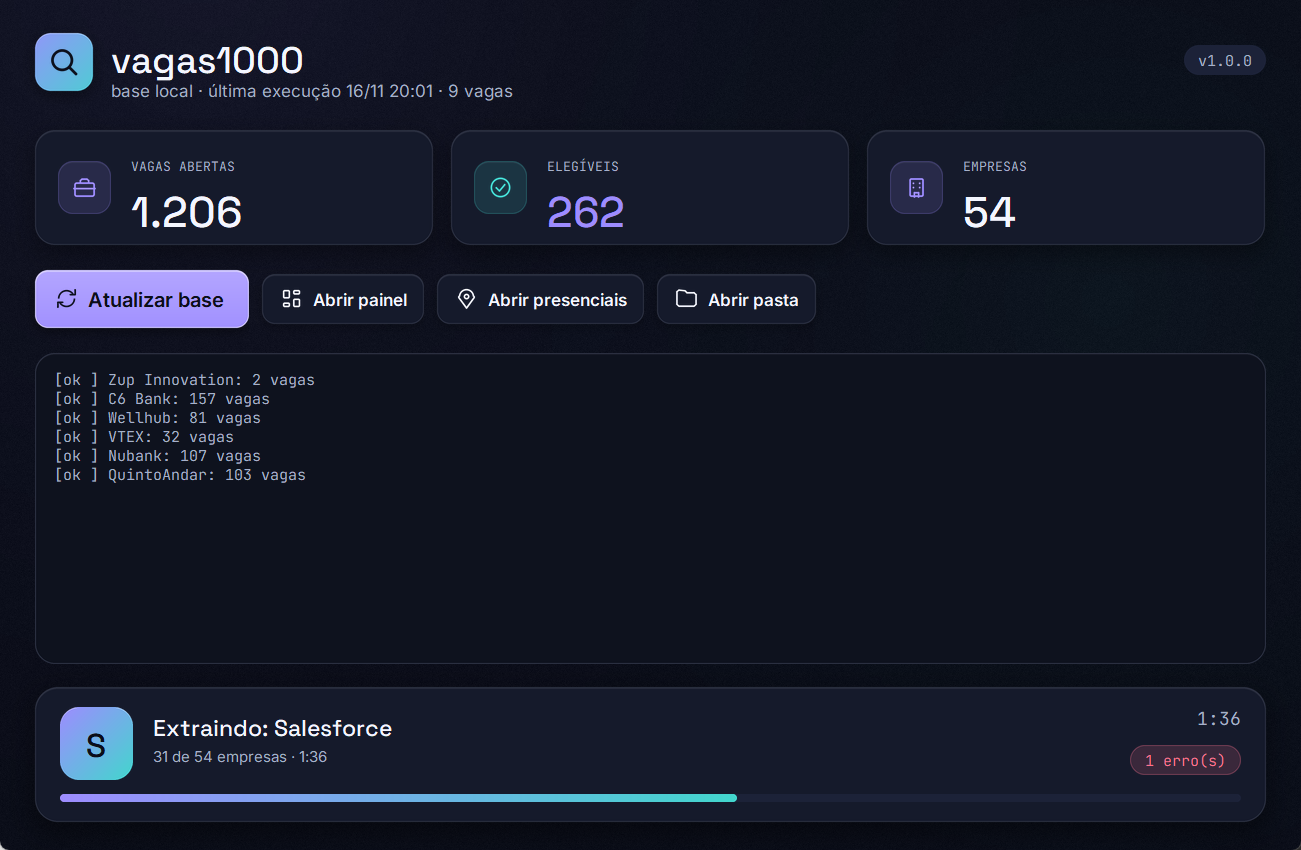
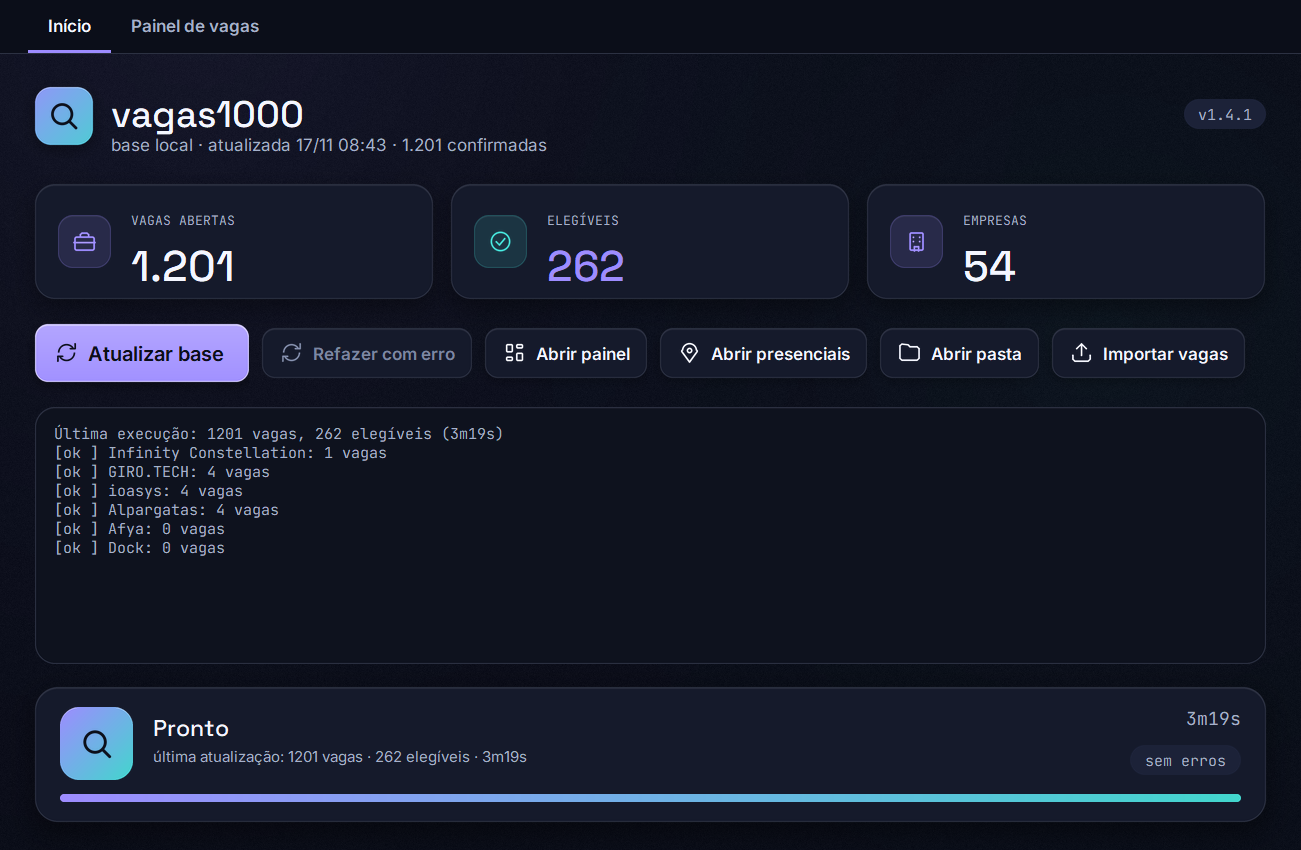
vagas1000 1.4.1: polimento visual (P3) e imagem da janela na documentacao
- Placeholder dos campos com cor explicita (--ink-3, 5,2:1).
- Cards de vagas encerradas: esmaece so o titulo e o selo, nao o card
  inteiro (os metadados mantem 8:1).
- Cabecalhos de coluna: "Ordenar por ...", seta ↕ no hover/foco e acesso
  por teclado (tabindex, Enter/espaco).
- docs/public/img/janela.png refeita com a versao atual (capturada com
  PrintWindow numa copia descartavel do banco, sem a queda da Lever).
- O algarismo "1" do Space Grotesk ja usa a variante tabular (com base)
  no painel; o Tk nao aceita recursos OpenType: sem mudanca.
- Testes, CHANGELOG e versao 1.4.1.

diff --git a/scraper/templates/dashboard.html b/scraper/templates/dashboard.html
@@ -65,6 +65,7 @@ svg.i{width:16px;height:16px;fill:none;stroke:currentColor;stroke-width:1.75;str
 /* Contorno de componentes interativos: --border-strong (>= 3:1, WCAG 1.4.11); --border fica para cards e divisores. */
 input[type=search],select,input[type=text]{background:var(--field);border:1px solid var(--border-strong);border-radius:var(--r-sm);padding:7px 11px;min-width:0}
 input[type=search]:focus,select:focus{border-color:var(--accent)}
+::placeholder{color:var(--ink-3);opacity:1}               /* o padrão do navegador some no campo escuro; o rótulo acessível está no aria-label */
 input[type=checkbox]{width:18px;height:18px;margin:0;accent-color:var(--accent);cursor:pointer;flex:none}
 input[type=range]{height:24px;margin:0;accent-color:var(--accent);cursor:pointer}
 .seg{display:inline-flex;background:var(--field);border:1px solid var(--border-strong);border-radius:var(--r-sm);padding:3px;gap:2px}
@@ -174,7 +175,7 @@ button.pill{cursor:pointer} button.pill:hover{border-color:var(--ink-3)}
 .cards{display:grid;grid-template-columns:repeat(auto-fill,minmax(310px,1fr));gap:14px}
 .card{display:flex;flex-direction:column;gap:10px;background:var(--surface-2);border:1px solid var(--border);border-radius:var(--r-lg);padding:16px;box-shadow:inset 0 1px 0 var(--hl),0 2px 8px -2px var(--shadow);cursor:pointer;transition:transform .15s,border-color .15s,box-shadow .15s;text-align:left;color:inherit;min-width:0}
 .card:hover{transform:translateY(-2px);border-color:color-mix(in srgb,var(--accent) 45%,var(--border));box-shadow:inset 0 1px 0 var(--hl),0 10px 24px -8px var(--shadow);text-decoration:none}
-.card.closed{opacity:.72}
+.card.closed .c-title,.card.closed .tile{opacity:.6}                 /* esmaecer o card inteiro derrubava o contraste dos metadados abaixo de 4,5:1 */
 .c-top{display:flex;align-items:center;gap:10px}
 .tile{width:38px;height:38px;border-radius:12px;display:grid;place-items:center;font:600 16px var(--font-head);color:var(--accent-fg);background:linear-gradient(135deg,var(--accent),var(--teal));flex:none;box-shadow:inset 0 1px 0 rgba(255,255,255,.3)}
 .tile.lg{width:54px;height:54px;border-radius:16px;font-size:22px}
@@ -197,6 +198,8 @@ table{width:100%;border-collapse:collapse}
 th,td{text-align:left;padding:9px 12px;border-bottom:1px solid var(--grid);vertical-align:top}
 th{font-family:var(--font-mono);text-transform:uppercase;letter-spacing:.04em;font-size:12px;color:var(--ink-2);font-weight:500;white-space:nowrap;cursor:pointer;user-select:none;position:sticky;top:0;background:var(--surface-2)}
 th[aria-sort=ascending]::after{content:" ▲"} th[aria-sort=descending]::after{content:" ▼"}
+th[data-k]:hover,th[data-k]:focus-visible{color:var(--ink)}
+th[data-k]:not([aria-sort]):hover::after,th[data-k]:not([aria-sort]):focus-visible::after{content:" ↕";opacity:.55}
 tr.row{cursor:pointer} tr.row:hover td{background:var(--raised)}
 td.sc{white-space:nowrap;font-variant-numeric:tabular-nums;width:92px}
 .scbar{display:inline-block;height:8px;border-radius:999px;background:var(--bar);vertical-align:middle;margin-right:6px}
@@ -561,13 +564,15 @@ function render(){
   $("#more").textContent = `Carregar mais (${(total - shown.length).toLocaleString("pt-BR")} restantes)`;
   document.querySelectorAll("#viewSeg button").forEach(b => b.setAttribute("aria-pressed", b.dataset.v === state.view));
   if (state.view === "cards") { $("#out").innerHTML = `<div class="cards">${shown.map(card).join("")}</div>`; return; }
-  const th = (k,l) => `<th data-k="${k}" ${state.sortK===k?`aria-sort="${tableDir===1?"ascending":"descending"}"`:""}>${l}</th>`;
+  const th = (k,l) => `<th data-k="${k}" tabindex="0" title="Ordenar por ${l.toLowerCase()}" ${state.sortK===k?`aria-sort="${tableDir===1?"ascending":"descending"}"`:""}>${l}</th>`;
   $("#out").innerHTML = `<div class="tablewrap"><table><thead><tr>${th("score","Nota")}${th("verdict","Veredito")}${th("company","Empresa")}${th("title","Vaga")}${th("location","Local")}<th>Tecnologias</th>${th("first_seen","Vista em")}</tr></thead><tbody>` +
     shown.map(j => `<tr class="row" data-go="${esc(j.key)}"><td class="sc"><span class="scbar" style="width:${Math.max(2,j.score*0.4)}px"></span>${j.score.toFixed(0)}</td>
       <td><span class="badge b-${j.verdict}">${VERD[j.verdict]||j.verdict}</span></td><td>${esc(j.company)}</td>
       <td>${esc(j.title)}${j.is_new?' <span class="badge b-new">Nova</span>':""}${j.status==="closed"?' <span class="badge b-closed">Encerrada</span>':""}</td>
       <td>${esc(j.location)}<div class="muted">${esc(WORK[j.workplace]||"")}</div></td><td>${j.techs.map(t=>esc(TECH[t]||t)).join(", ")}</td><td class="muted">${fmtDate(j.first_seen)}</td></tr>`).join("") + "</tbody></table></div>";
 }
+$("#out").addEventListener("keydown", e => {              // cabeçalho de coluna acessível pelo teclado
+  if ((e.key === "Enter" || e.key === " ") && e.target.matches("th[data-k]")) { e.preventDefault(); e.target.click(); } });
 $("#out").addEventListener("click", e => {
   const th = e.target.closest("th[data-k]"); if (th) { const k = th.dataset.k; tableDir = state.sortK === k ? -tableDir : (k==="score"||k==="first_seen" ? -1 : 1); state.sortK = k; render(); return; }
   const tr = e.target.closest("tr[data-go]"); if (tr) location.hash = "#/vaga/" + encodeURIComponent(tr.dataset.go); });

diff --git a/tests/test_resilience.py b/tests/test_resilience.py
@@ -112,6 +112,25 @@ class WindowLayoutTests(unittest.TestCase):
         self.assertNotIn('[data-embed="1"] .tabs{display:none}', html)  # as abas internas aparecem também dentro do app
 
 
+class PolishTests(unittest.TestCase):
+    """Itens P3 da crítica visual (placeholder, cards encerrados, ordenação por teclado)."""
+
+    def setUp(self):
+        self.html = (ROOT / "scraper" / "templates" / "dashboard.html").read_text(encoding="utf-8")
+
+    def test_placeholder_has_an_explicit_color(self):
+        self.assertIn("::placeholder{color:var(--ink-3);opacity:1}", self.html)
+
+    def test_closed_cards_fade_only_title_and_tile(self):
+        self.assertNotIn(".card.closed{opacity", self.html)           # esmaecer o card todo derrubava o contraste dos metadados
+        self.assertIn(".card.closed .c-title,.card.closed .tile{opacity:.6}", self.html)
+
+    def test_sortable_headers_are_keyboard_reachable_and_hint_at_sorting(self):
+        self.assertIn('tabindex="0" title="Ordenar por ', self.html)
+        self.assertIn('e.target.matches("th[data-k]")', self.html)
+        self.assertIn('content:" ↕"', self.html)
+
+
 class FetchDetailsTests(unittest.TestCase):
     def test_stops_opening_details_after_three_failures_in_a_row(self):
         """Workday respondia 429 em cada detalhe e o app seguia batendo na porta até o fim da lista."""

diff --git a/scraper/version.py b/scraper/version.py
@@ -3,4 +3,4 @@
 Para lançar: altere este número e o CHANGELOG.md, faça merge na main e crie a tag `vX.Y.Z`
 (o workflow release.yml gera o instalador e publica a Release).
 """
-__version__ = "1.4.0"
+__version__ = "1.4.1"

diff --git a/CHANGELOG.md b/CHANGELOG.md
@@ -4,6 +4,16 @@ Formato [Keep a Changelog](https://keepachangelog.com/pt-BR/1.1.0/); versões se
 
 ## Não lançado
 
+## [1.4.1] - 2026-11-17
+
+Polimento visual do painel e da documentação (últimos itens da crítica visual).
+
+### Alterado
+- **Campos de busca**: o texto-guia (placeholder) agora tem cor explícita, com contraste de 5,2:1; o padrão do navegador quase sumia no campo escuro.
+- **Cards de vagas encerradas**: só o título e o selo ficam esmaecidos; o restante do card mantém o contraste (antes o card inteiro perdia opacidade e os metadados caíam abaixo de 4,5:1).
+- **Colunas da tabela**: mostram "Ordenar por …" e a seta ↕ ao passar o mouse ou focar, e podem ser acionadas pelo teclado (Tab, Enter ou espaço).
+- A imagem da janela na documentação foi refeita com a versão atual (abas Início e Painel de vagas, botão "Refazer com erro").
+
 ## [1.4.0] - 2026-11-17
 
 ### Adicionado
